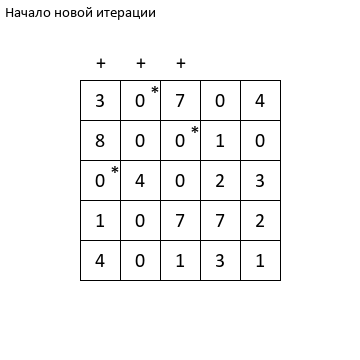
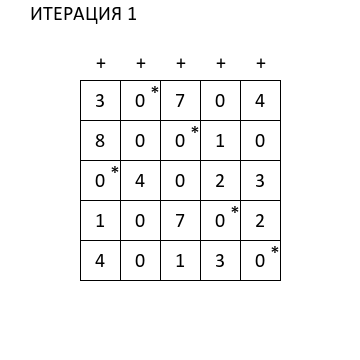
add drawing matrices in the general picture

diff --git a/assignment_problem/hungarian_matrix.py b/assignment_problem/hungarian_matrix.py
@@ -1,6 +1,8 @@
 from assignment_problem.parent_method import Method
 import numpy    # numpy==1.19.3
 
+iteration = 1
+
 
 class HungM_method(Method):
     def __init__(self, matrix, bot, message):
@@ -10,7 +12,9 @@ class HungM_method(Method):
     # --------------------------------------Построение введенной матрицы------------------------------------------------
     def build_matrix(self):
         self.set_default()
-        self._create_table('Вы ввели:')
+        self.create_empty_formate()
+        self._create_table('ВЫ ВВЕЛИ:')
+        self.create_formate((0, 0))
 
         return self.matrix
 
@@ -26,14 +30,20 @@ class HungM_method(Method):
 
         return minimum
 
-    def reduction(self, matrix, reduct_matrix):
-        num_col = len(self.matrix)
 
+    def reduction(self, matrix, reduct_matrix, clear_matrix, text, position):
+        num_col = len(self.matrix)
         del reduct_matrix[:]
 
         for i in range(0, num_col):
             minimum = self.search_min(matrix[i])
             reduct_matrix.append(minimum)
+
+        del clear_matrix[:]
+        for i in range(0, num_col):
+            clear_matrix.append('')
+        self._create_table(text)
+        self.create_formate(position)
 
         for i in range(0, num_col):
             for j in range(0, num_col):
@@ -43,16 +53,22 @@ class HungM_method(Method):
 
 
     def col_reduction_r1(self):
-        rot_matrix = self.reduction(numpy.rot90(self.matrix, k=3).tolist(), self.reduct_hor)
+        rot_matrix = self.reduction(numpy.rot90(self.matrix, k=3).tolist(), self.reduct_hor, self.reduct_vert,
+                                    'РЕДУКЦИЯ ПО СТОЛБЦАМ', (0, 1))
         self.matrix = numpy.rot90(rot_matrix).tolist()
-        self._create_table('Редукция матрицы по столбцам')
 
         return 'R2'
 
+
     def row_reduction_r2(self):
+        self.matrix = self.reduction(self.matrix, self.reduct_vert, self.reduct_hor,
+                                     'РЕДУКЦИЯ ПО СТРОКАМ', (0, 2))
+        return 'R3'
+
+    def reduction_r3(self):
         self.set_default()
-        self.matrix = self.reduction(self.matrix, self.reduct_vert)
-        self._create_table('Редукция матрицы по строкам')
+        self._create_table('')
+        self.create_formate((0, 3))
 
         return 'P'
 
@@ -68,6 +84,7 @@ class HungM_method(Method):
 
 
     def preparatory_stage_p(self):
+        global iteration
         num_col = len(self.matrix)
         num_independent_zer = 0
 
@@ -82,18 +99,13 @@ class HungM_method(Method):
                         num_independent_zer += 1
                         break
 
-        self._create_table('Начало новой итерации')
+        self._create_table(f'ИТЕРАЦИЯ {iteration}')
+        self.create_formate((iteration, 1))
+        iteration += 1
 
         if num_independent_zer == num_col:
             return 'F1'
         return 'A1'
-
-
-    def select_optimal_appointments_f1(self):
-        pass
-
-    def output_sum_f2(self):
-        pass
 
     def a1(self):
         pass
@@ -102,5 +114,13 @@ class HungM_method(Method):
         pass
 
     def a3(self):
+        pass
+
+# -----------------------------------------------Выбор * и завершение---------------------------------------------------
+
+    def select_optimal_appointments_f1(self):
+        pass
+
+    def output_sum_f2(self):
         pass
 

diff --git a/assignment_problem/parent_method.py b/assignment_problem/parent_method.py
@@ -1,6 +1,8 @@
 from PIL import Image, ImageDraw, ImageFont
 from assignment_problem.cell import Cell
 
+cell_size = 40
+frame_width = cell_size * 2
 
 class Method:
     def __init__(self, matrix, bot, message):
@@ -47,9 +49,37 @@ class Method:
             self.index_vert.append('')
 
 
+    def create_empty_formate(self):
+        global cell_size
+        global frame_width
+        col_num = len(self.matrix)
+        picture_size = col_num * cell_size + 2 * frame_width
+        pic_in_height = 7
+        pic_in_width = 4
+
+        form = Image.new('RGBA', (pic_in_width * picture_size, pic_in_height * picture_size), 'white')
+        form.save(f"pictures/{self.name}_formate{self.message.from_user.id}.png")
+
+
+    def create_formate(self, position):
+        global cell_size
+        global frame_width
+        col_num = len(self.matrix)
+        picture_size = col_num * cell_size + 2 * frame_width
+        coordinates = [position[0] * picture_size,
+                       position[1] * picture_size]
+
+        form = Image.open(f"pictures/{self.name}_formate{self.message.from_user.id}.png")
+        img = Image.open(f"pictures/{self.name}{self.message.from_user.id}.png")
+
+        form.paste(img, (coordinates[0], coordinates[1]))
+
+        form.save(f"pictures/{self.name}_formate{self.message.from_user.id}.png")
+
+
     def _create_table(self, text, state=''):
-        cell_size = 40
-        frame_width = cell_size * 2
+        global cell_size
+        global frame_width
         col_num = len(self.matrix)
         m_side_size = cell_size * col_num
 
@@ -77,7 +107,7 @@ class Method:
 
         padding = 6     # отступ
 
-        draw.text((5, 5), text, font=font_index, fill='black')
+        draw.text((5, 5), f'     {text}', font=font, fill='black')
         draw.text((2 * frame_width + m_side_size - font.getsize(state)[0] - 2, 5), state, font=font, fill='black')
 
         for i in range(0, col_num):

diff --git a/main.py b/main.py
@@ -87,18 +87,20 @@ def start_hung_m(message):
 
 def hung_m_body(message):
     try:
-        method = HungM_method(message.text, bot, message)
+        primary = method = HungM_method(message.text, bot, message)
+        primary.build_matrix()
         method.build_matrix()
     except:
         bot.send_message(message.from_user.id, "Неверный ввод. Чтобы попробовать еще раз, введите /hung_matrix")
         exit()
 
-    with open(f"pictures/hung_matrix{message.from_user.id}.png", "rb") as pic:
-        bot.send_photo(message.from_user.id, photo=pic)
+    with open(f"pictures/hung_matrix_formate{message.from_user.id}.png", "rb") as pic:
+        bot.send_document(message.from_user.id, pic)
 
     algorithm = {'S': start(message),
                 'R1': method.col_reduction_r1,
                 'R2': method.row_reduction_r2,
+                'R3': method.reduction_r3,
                 'P': method.preparatory_stage_p,
                 'F1': method.select_optimal_appointments_f1,
                 'F2': method.output_sum_f2,
@@ -110,8 +112,8 @@ def hung_m_body(message):
     while status != 'F':
         print(algorithm[status].__name__, end=' return ')
         status = algorithm[status]()
-        with open(f"pictures/hung_matrix{message.from_user.id}.png", "rb") as pic:
-            bot.send_photo(message.from_user.id, photo=pic)
+        with open(f"pictures/hung_matrix_formate{message.from_user.id}.png", "rb") as pic:
+            bot.send_document(message.from_user.id, pic)
         print(status)
         # status = 'F'
 
